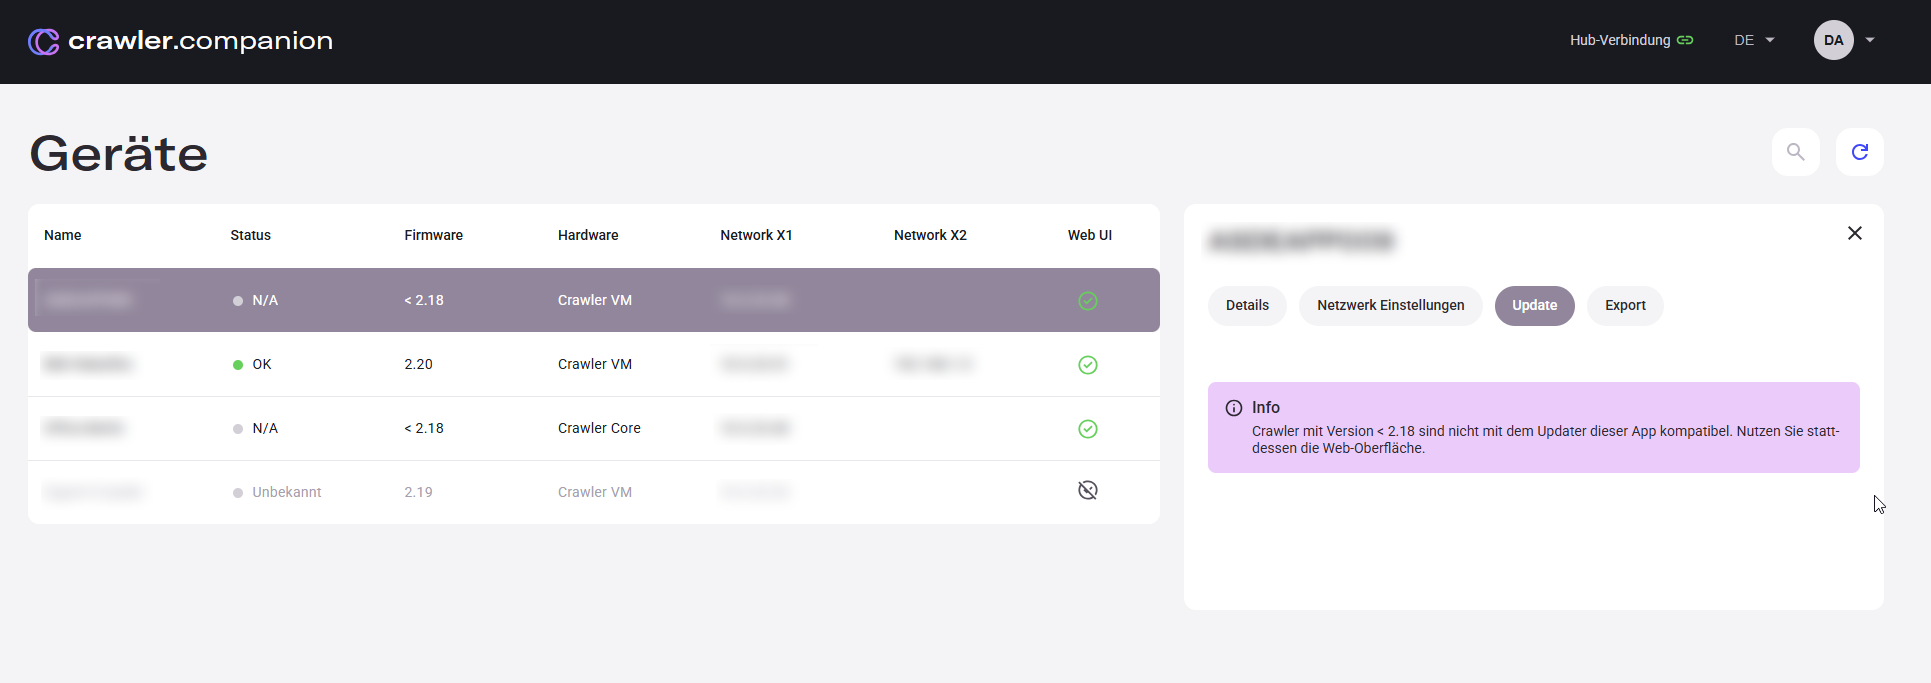
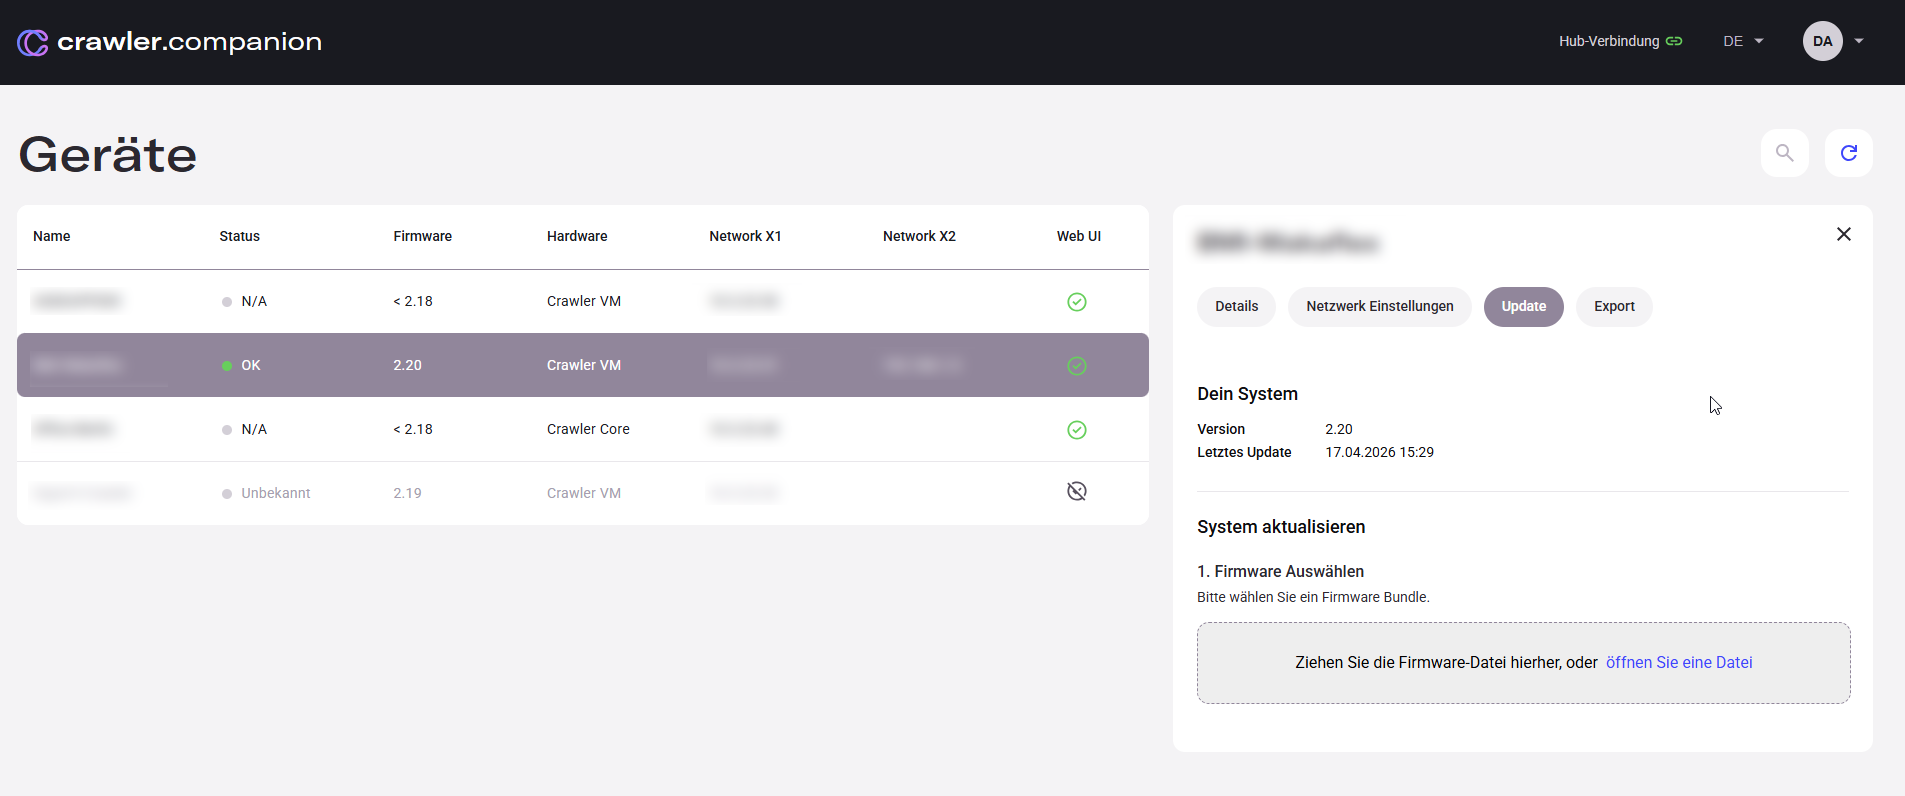
feat(companion): add export image carousel with zoom support in quickstart (CR-972)
- Add two-slide image carousel (CSV export + Deepview export) to Export tab
- Blue arrow button always visible; zoom button (lupe) on hover bottom-right
- Grid-stack carousel slides to prevent layout jump on image switch
- Add initQsImgCarousels() and extend initZoomBtns() for carousel slides
- Add companion-export-deepview.png screenshot

diff --git a/src/styles/custom.css b/src/styles/custom.css
@@ -564,6 +564,41 @@ starlight-toc a {
   margin: 1rem 0;
 }
 
+/* ─── Quickstart image carousel ─────────────────────────────────────── */
+.qs-img-carousel {
+  position: relative;
+  display: grid;
+  margin-top: 1rem;
+  border-radius: 10px;
+  overflow: hidden;
+}
+.qs-img-slide { grid-area: 1 / 1; position: relative; visibility: hidden; }
+.qs-img-slide.qs-img-active { visibility: visible; }
+.qs-img-slide img { width: 100%; height: auto; display: block; border-radius: 10px; }
+.qs-img-next,
+.qs-img-prev {
+  position: absolute;
+  top: 50%;
+  transform: translateY(-50%);
+  background: var(--sl-color-accent, #2549ff);
+  border: none;
+  color: #fff;
+  font-size: 1.6rem;
+  line-height: 1;
+  width: 36px;
+  height: 36px;
+  border-radius: 50%;
+  cursor: pointer;
+  display: flex;
+  align-items: center;
+  justify-content: center;
+  opacity: 0;
+  transition: opacity 0.15s;
+  z-index: 5;
+}
+.qs-img-next { right: 10px; opacity: 1; }
+.qs-img-prev { left: 10px; display: none; opacity: 1; }
+
 /* ─── Changelog timeline ─────────────────────────────────────────────── */
 
 /* ── Changelog: each bullet point as a card ── */
@@ -807,9 +842,29 @@ starlight-toc a {
   z-index: 2;
 }
 
+.qs-img-slide .zoom-btn {
+  position: absolute;
+  bottom: 10px;
+  right: 10px;
+  width: 32px;
+  height: 32px;
+  background: rgba(0,0,0,0.55);
+  border: none;
+  border-radius: 6px;
+  display: flex;
+  align-items: center;
+  justify-content: center;
+  cursor: pointer;
+  opacity: 0;
+  transition: opacity 0.15s;
+  color: #fff;
+  z-index: 6;
+}
+
 .screenshot-frame:hover .zoom-btn,
 .page-hero-image:hover .zoom-btn,
-.companion-banner:hover .zoom-btn {
+.companion-banner:hover .zoom-btn,
+.qs-img-slide:hover .zoom-btn {
   opacity: 1;
 }
 
